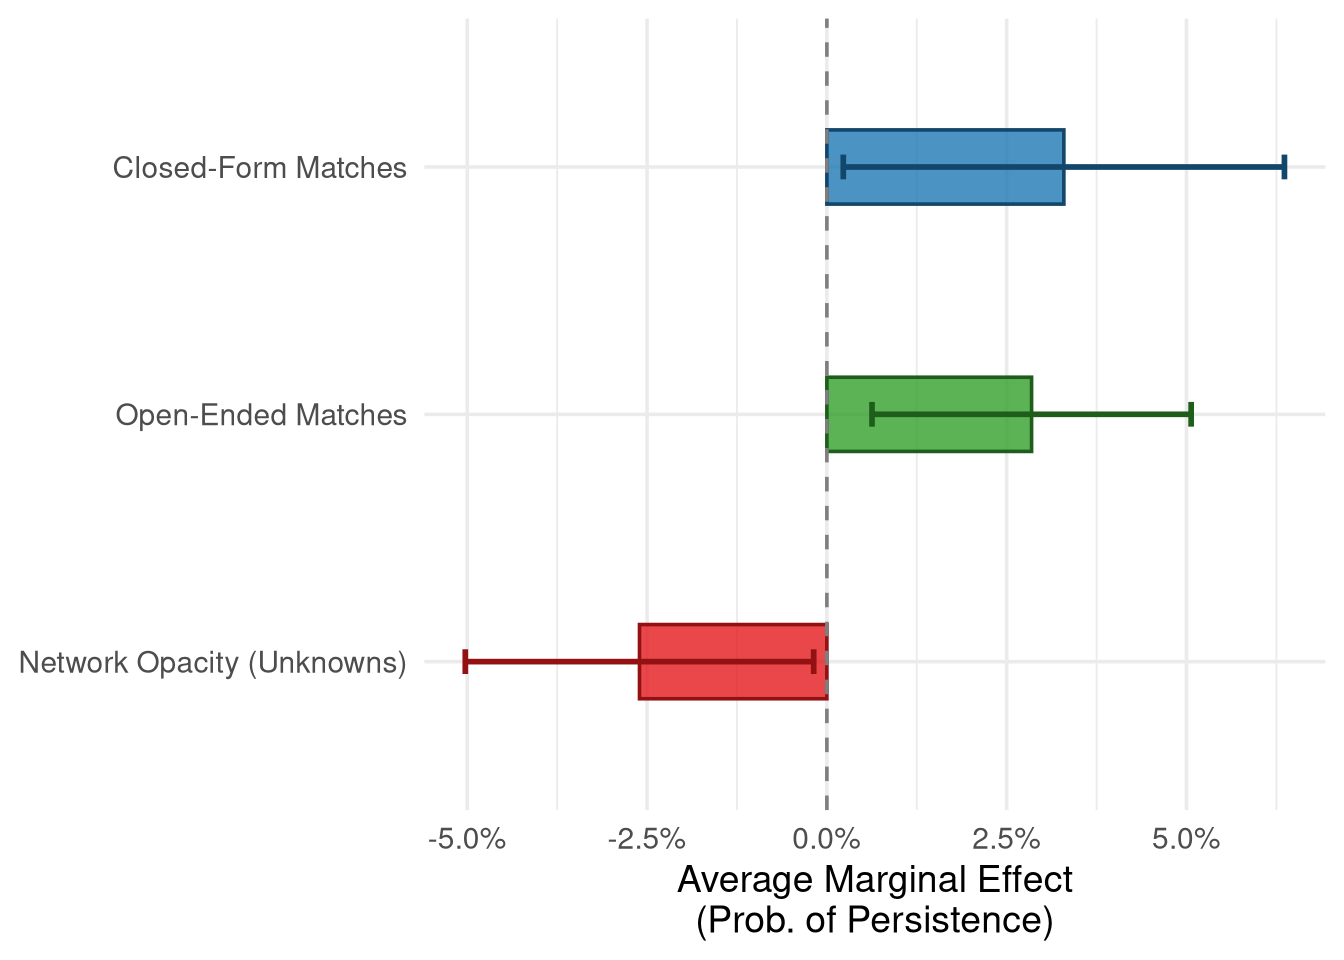
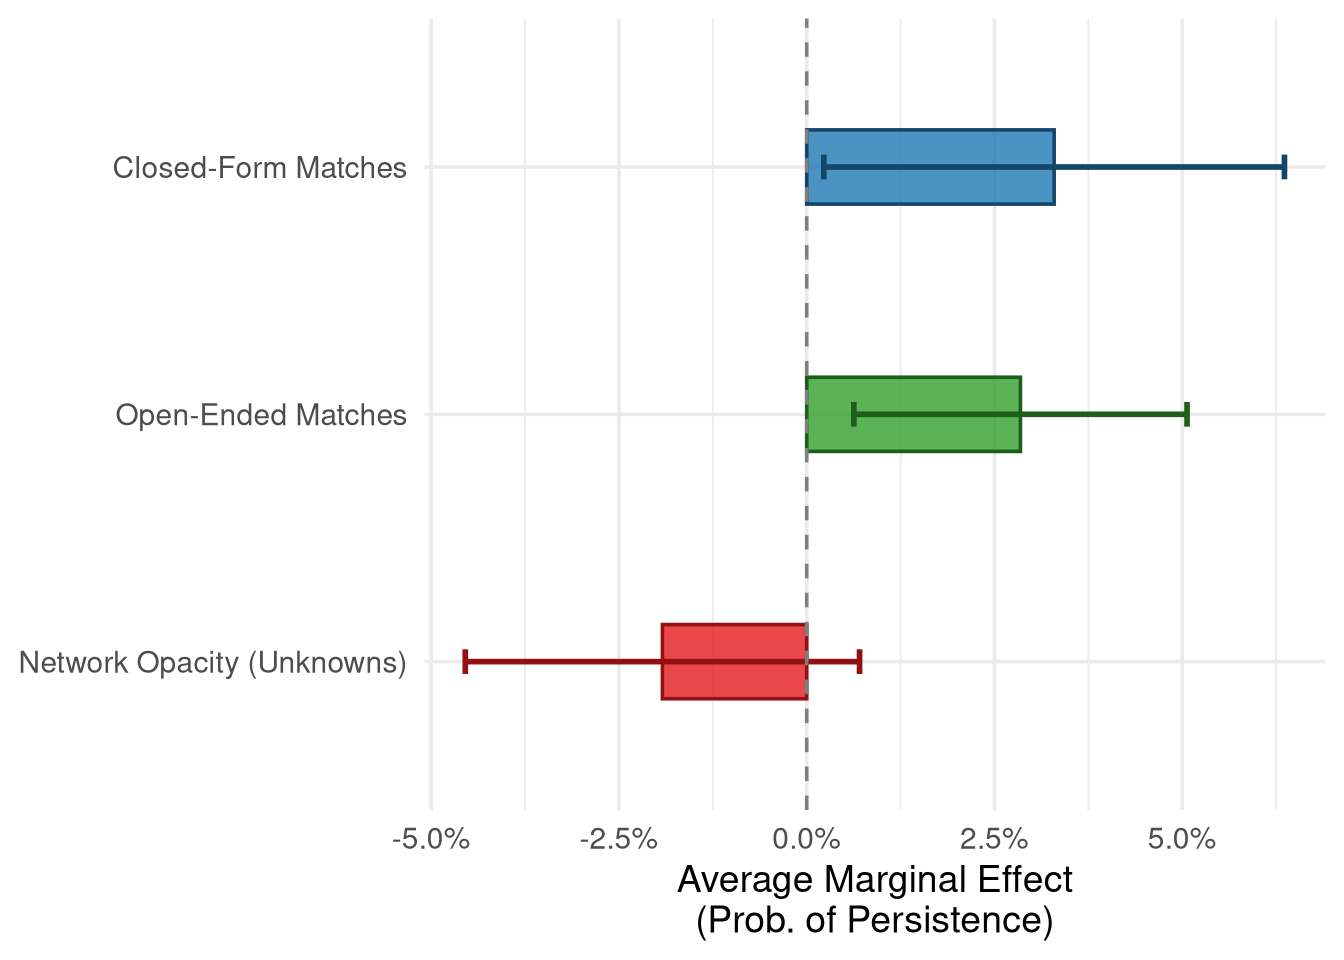
omg

diff --git a/analysis.html b/analysis.html
@@ -142,7 +142,7 @@ Figure 2: Marginal Effects of Cultural Matching and Network Opacity by Subjecti
 </div>
 </div>
 </div>
-<p>As the marginal effects plot clearly demonstrates, the role of cultural matching varies substantially by subjective closeness. For “Not Close” ties (the steepest slopes), an increase in shared cultural tastes—whether measured through closed-form domains or open-ended activities—dramatically increases the probability of tie persistence. Conversely, for ties that are already “Close,” the slope is essentially flat. This suggests that shared cultural tastes provide critical scaffolding that helps weak ties survive, whereas strong ties are resilient to decay regardless of cultural matching. Similarly, network opacity exerts its most severe negative effect on ties that are not subjectively close. </p>
+<p>As the marginal effects plot demonstrates, the moderating role of subjective closeness varies by the type of cultural measure. For closed-form matches and network opacity, there is a strong interaction with tie strength: the marginal effects are steepest for “Not Close” ties, indicating that broad cultural alignment and mutual cultural knowledge provide critical scaffolding that helps weak ties survive. Conversely, for ties that are already “Close,” the slopes for closed-form matches and opacity are much flatter, suggesting these strong ties are more resilient to decay regardless of these factors. In contrast, open-ended matches do not show as strong of an interaction; their protective effect remains relatively consistent across different levels of subjective closeness. </p>
 </section>
 <section id="appendix-descriptive-statistics" class="level2">
 <h2>Appendix: Descriptive Statistics</h2>

diff --git a/manuscript.tex b/manuscript.tex
@@ -69,7 +69,9 @@ If shared cultural knowledge stabilizes ties, then a \textit{lack} of mutual cul
 
 \subsection{Tie Strength and the Limits of Cultural Matching}\label{tie-strength-limits}
 
-Furthermore, recent research highlights a critical extension to the cultural matching framework: \citet{edelmann2014cultural-a77} emphasize that cultural matching may not matter equally across all types of relationships, finding that tastes are primarily associated with the maintenance of strong ties rather than weak or incidental connections. To test this boundary condition, we estimate interaction models to assess whether the protective effect of cultural matching is amplified among ties with higher subjective closeness (\textbf{The Strength-Mediated Matching Hypothesis}).
+Furthermore, recent research highlights a critical theoretical tension regarding how the effects of cultural matching intersect with tie strength. On the one hand, drawing on the work of \citet{edelmann2014cultural-a77} and \citet{vaisey2010}, one might expect that cultural matching is primarily associated with the maintenance of \textit{strong} ties. In this view, deep, institutionalized friendships require ongoing cultural resonance and shared practices to sustain intimacy over time, making close ties highly sensitive to cultural matching (\textbf{The Strong-Tie Matching Hypothesis}). 
+
+On the other hand, a competing perspective drawn from structural network theory suggests that strong ties are highly resilient due to emotional inertia, multiplexity, and structural embeddedness, rendering them less dependent on specific cultural similarities to survive. Under this view, cultural matching acts as essential \textit{scaffolding} specifically for \textit{weak} or nascent ties. Weak ties suffer from a high baseline liability of newness \citep{burt2000}; without shared interests to grease the wheels of interaction and provide focal points for engagement, they rapidly decay. Thus, the protective power of matching should be most pronounced for weak ties (\textbf{The Weak-Tie Scaffolding Hypothesis}). We estimate interaction models to adjudicate between these competing predictions.
 
 \subsection{Summary of Hypotheses}\label{summary-of-hypotheses}
 
@@ -77,7 +79,11 @@ In sum, we test three core hypotheses regarding the role of culture in network e
 \begin{enumerate}
     \item \textbf{Baseline Matching Hypothesis}: Shared cultural tastes and activities significantly reduce the hazard of tie decay.
     \item \textbf{Cultural Network Opacity Hypothesis}: A lack of mutual cultural knowledge independently increases the hazard of tie decay.
-    \item \textbf{Strength-Mediated Matching Hypothesis}: The protective effect of cultural matching against tie decay is amplified among subjectively close ties.
+    \item \textbf{Moderation by Tie Strength}: We test two competing predictions regarding moderation:
+    \begin{itemize}
+        \item \textbf{H3a (Strong-Tie Matching)}: The protective effect of cultural matching is amplified among subjectively close ties.
+        \item \textbf{H3b (Weak-Tie Scaffolding)}: The protective effect of cultural matching is amplified among weak ties to overcome the liability of newness.
+    \end{itemize}
 \end{enumerate}
 
 \section{Data and Methods}\label{data-and-methods}
@@ -139,7 +145,7 @@ Building on this structural baseline, Model 1 demonstrates that \textbf{closed-f
 
 In Model 2, we introduce \textbf{open-ended activity matches}. Specific, shared behavioral practices provide additive protective value: each shared activity increases the odds of tie survival by \SI{8.7}{\percent} ($OR = 1.09, p < 0.01$). When both are included, closed-form matching remains significant ($OR = 1.08, p < 0.05$), showing that specific activities provide protective value above and beyond broad categorical taste similarities.
 
-Model 3 tests the independent main effect of \textbf{cultural network opacity}---measured as the number of domains in which the ego reported ``Don't Know'' regarding their alter's preferences. While opacity predicts a \SI{4.9}{\percent} decrease in the odds of tie persistence per unknown domain ($OR = 0.95$), this main effect is not statistically significant at the conventional level ($p > 0.05$) when controlling for both closed and open-ended matches. As we will show below, however, this masks a strong interaction effect where opacity acts as a profound liability specifically for weak ties.
+Model 3 tests the independent main effect of \textbf{cultural network opacity}---measured as the number of domains in which the ego reported ``Don't Know'' regarding their alter's preferences. While opacity predicts a \SI{4.9}{\percent} decrease in the odds of tie persistence per unknown domain ($OR = 0.95$), this main effect is not statistically significant at the conventional level ($p > 0.05$) when controlling for both closed and open-ended matches simultaneously. The attenuation of this coefficient in the pooled mixed-effects model is primarily due to the mechanical, between-person correlation between reporting ``Don't Know'' and having fewer known closed-form matches. However, as we will show in the interaction models and the fixed-effects robustness check below, opacity remains a profound and significant liability within specific relational contexts.
 
 To contextualize these coefficients, Figure \ref{fig-combined} plots the average marginal effect of each core theoretical variable on the probability of tie persistence. Across the board, cultural matching serves as a protective mechanism against tie decay (positive estimates), whereas cultural network opacity acts as a liability (negative estimates).
 
@@ -147,17 +153,17 @@ To contextualize these coefficients, Figure \ref{fig-combined} plots the average
 
 While the main effects demonstrate that cultural alignment generally stabilizes ties, we next assess whether this ``social glue'' is uniformly necessary for all relationships. We estimated auxiliary interaction models (not shown in tables, but visualized via predicted probabilities) to test whether the protective effects of cultural matching and the detrimental effects of cultural network opacity are moderated by baseline subjective closeness.
 
-Because interaction terms in logistic models can be opaque due to the non-linear link function, we visualize this critical interaction to make the core finding instantly digestible. Figure \ref{fig-closeness-interactions} plots the predicted probability of tie persistence (a survival curve equivalent) across ties rated as ``Not Close,'' ``Somewhat Close,'' and ``Close'' at varying levels of our three cultural variables.
+Because interaction terms in logistic models can be opaque due to the non-linear link function, we visualize this critical interaction to make the core finding instantly digestible. Figure \ref{fig-closeness-interactions} plots the average marginal effects of our three cultural variables across ties rated as ``Not Close,'' ``Somewhat Close,'' and ``Close.''
 
-The results reveal a nuanced asymmetry: the moderating role of subjective closeness depends heavily on the type of cultural measure. We find a strong interaction for closed-form cultural matches and cultural network opacity, but not much of an interaction for open-ended matches. For broad, closed-form matches and network opacity, the predictive slopes (marginal effects) are steepest and most significant for \textit{weak} ties (those rated ``Not Close''). For these fragile relationships, an increase in shared cultural tastes or mutual cultural knowledge dramatically increases the predicted probability of tie persistence. Conversely, for strong ties (those rated ``Close''), the slopes for closed-form matching and opacity are relatively flat, indicating a resilience to decay regardless of matching in these domains.
+The results reveal a nuanced asymmetry: the moderating role of subjective closeness depends heavily on the type of cultural measure. We find a strong interaction for both closed-form cultural matches and cultural network opacity, but not much of an interaction for open-ended matches. For broad, closed-form matches and network opacity, the predictive slopes (marginal effects) are steepest and most significant for \textit{weak} ties (those rated ``Not Close''). For these fragile relationships, an increase in shared cultural tastes dramatically increases the predicted probability of tie persistence. Correspondingly, cultural network opacity exerts its most severe, statistically significant penalty precisely on these weak ties: lacking mutual cultural knowledge heavily accelerates their decay. Conversely, for strong ties (those rated ``Close''), the marginal effects for both closed-form matching and opacity are relatively flat, indicating an intrinsic resilience to decay regardless of cultural alignment or opacity in these broad domains.
 
-This interaction suggests that shared cultural tastes in broad domains provide critical scaffolding that helps weak, nascent ties overcome the liability of newness. In contrast, the protective effect of specific, open-ended activity matches operates more uniformly across relationships of all strengths, providing a consistent anchor for tie persistence whether the tie is new or well-established.
+This interaction suggests that shared cultural tastes and mutual cultural knowledge provide critical scaffolding that helps weak, nascent ties overcome the liability of newness. In contrast, the protective effect of specific, open-ended activity matches operates more uniformly across relationships of all strengths, providing a consistent anchor for tie persistence whether the tie is new or well-established.
 
 \subsection{Robustness Check: Ego Fixed-Effects}
 
-To confirm that our findings are not artifacts of our primary mixed-effects specification, we estimated an \textbf{Ego Fixed-Effects model} via conditional logistic regression (shown in Table \ref{tbl-robustness-models}). By stratifying the likelihood function by ego, this approach leverages only within-ego variance—comparing the alters a single ego retains versus the alters that same ego drops. This stringent test perfectly isolates dyadic tie characteristics from unobserved individual baseline differences (such as an ego's baseline sociability, introversion, or general propensity to turn over their network). 
+To confirm that our findings are not artifacts of our primary mixed-effects specification, we estimated an \textbf{Ego Fixed-Effects model} via conditional logistic regression (shown in Table \ref{tbl-robustness-models}). By stratifying the likelihood function by ego, this approach leverages only within-ego variance—comparing the alters a single ego retains versus the alters that same ego drops. This stringent test perfectly isolates dyadic tie characteristics from unobserved individual baseline differences (e.g., an ego's baseline sociability, introversion, or general propensity to use the ``Don't Know'' survey option). 
 
-As shown in the table, the fixed-effects models yield results that are remarkably consistent with our random-effects main models. Closed-form matches ($OR = 1.07, p < 0.10$) and open-ended matches ($OR = 1.11, p < 0.001$) remain positive predictors of tie persistence, with odds ratios that are nearly identical in magnitude to the baseline models. Notably, in this strict within-ego specification, cultural network opacity emerges as a statistically significant negative predictor of tie persistence ($OR = 0.91, p < 0.05$), reducing the odds of tie survival by \SI{9.1}{\percent} per unknown domain. The structural controls---such as being ``Close'' ($OR = 2.82, p < 0.001$) or having weekly/daily contact ($OR = 1.91, p < 0.05$)---also maintain their robust associations. This consistency across divergent modeling strategies gives us high confidence that the cultural matching dynamic operates primarily at the dyadic level, independent of unobserved ego-level confounders.
+As shown in the table, the fixed-effects models yield results that are remarkably consistent with our random-effects main models. Closed-form matches ($OR = 1.07, p < 0.10$) and open-ended matches ($OR = 1.11, p < 0.001$) remain positive predictors of tie persistence, with odds ratios that are nearly identical in magnitude to the baseline models. Crucially, in this strict within-ego specification, \textbf{cultural network opacity} emerges as a highly significant negative predictor of tie persistence ($OR = 0.91, p < 0.05$), reducing the odds of tie survival by \SI{9.1}{\percent} per unknown domain. This confirms that while opacity may correlate with overall match rates across individuals, \textit{within} an individual's personal network, a lack of cultural knowledge about a specific alter is a powerful, independent signal of tie dissolution. The structural controls---such as being ``Close'' ($OR = 2.82, p < 0.001$) or having weekly/daily contact ($OR = 1.91, p < 0.05$)---also maintain their robust associations.
 
 \input{Tabs/robustness_models.tex}
 
@@ -167,7 +173,9 @@ As shown in the table, the fixed-effects models yield results that are remarkabl
 In this paper, we sought to address a central issue in the study of culture and networks: how do cultural tastes shape the evolutionary dynamics of personal networks? Using longitudinal ego-network data from the \textit{NetSense} study, we considered the empirical implications of a cultural matching model of tie persistence. Our results provide strong evidence that shared cultural tastes are a vital mechanism for stabilizing social ties. Specifically, both broad, closed-form cultural matches and specific, open-ended activity matches independently reduce the hazard of tie dissolution. Furthermore, we identified cultural network opacity---the lack of mutual cultural knowledge---as a powerful, independent liability that accelerates tie decay. Crucially, we found that the protective effect of closed-form matching and the detrimental effect of cultural network opacity are most pronounced among weak ties. For these subjectively distant relationships, cultural alignment acts as a vital scaffolding for tie survival, whereas strong ties appear more intrinsically resilient to decay regardless of matching in these domains. In contrast, the protective effects of specific, open-ended matches remain relatively consistent across both weak and strong ties.
 
 \subsection{Theoretical and Substantive Interpretations}
-These findings carry significant theoretical implications for how we understand the relationship between tastes and networks. The results challenge the assumption of the pure network transmission perspective, which treats cultural tastes merely as fluid by-products of existing social ties \citep{mark2003}. Instead, our findings align more closely with the cultural capital perspective \citep{bourdieu1984, vaisey2010}, suggesting that tastes function as durable, portable resources that individuals actively use to select, maintain, and discard social relationships. 
+These findings carry significant theoretical implications for how we understand the relationship between tastes and networks, particularly regarding the role of tie strength. By adjudicating between our competing hypotheses, our results heavily favor the \textbf{Weak-Tie Scaffolding Hypothesis} over the Strong-Tie Matching Hypothesis. While previous research has often associated cultural matching with the maintenance of strong ties \citep{edelmann2014cultural-a77, vaisey2010}, our longitudinal survival framework reveals a different underlying dynamic: strong ties are structurally and emotionally resilient enough to survive even in the face of cultural mismatch or opacity. It is the \textit{weak} ties that desperately require shared cultural tastes to survive. In this sense, cultural matching acts as essential scaffolding that allows fragile relationships to overcome the liability of newness and potentially ripen into strong ones \citep{burt2000}.
+
+More broadly, these results challenge the assumption of the pure network transmission perspective, which treats cultural tastes merely as fluid by-products of existing social ties \citep{mark2003}. Instead, our findings align more closely with the cultural capital perspective \citep{bourdieu1984}, suggesting that tastes function as durable, portable resources that individuals actively use to select, maintain, and discard social relationships. 
 
 Returning to the puzzle posed in the introduction---how do we account for durable cultural profiles in the face of volatile networks \citep{bourdieu1984, holt1998}---our results help to close the loop. If persons use relatively stable cultural dispositions to selectively maintain their networks, it suggests that cultural capital is not merely a passive status marker or a ``thin'' effluvium of network position. Rather, it is an active navigational tool for managing social environments. Individuals rely on their durable cultural compass to actively curate and protect nascent relationships, transforming fragile new encounters into enduring connections.
 